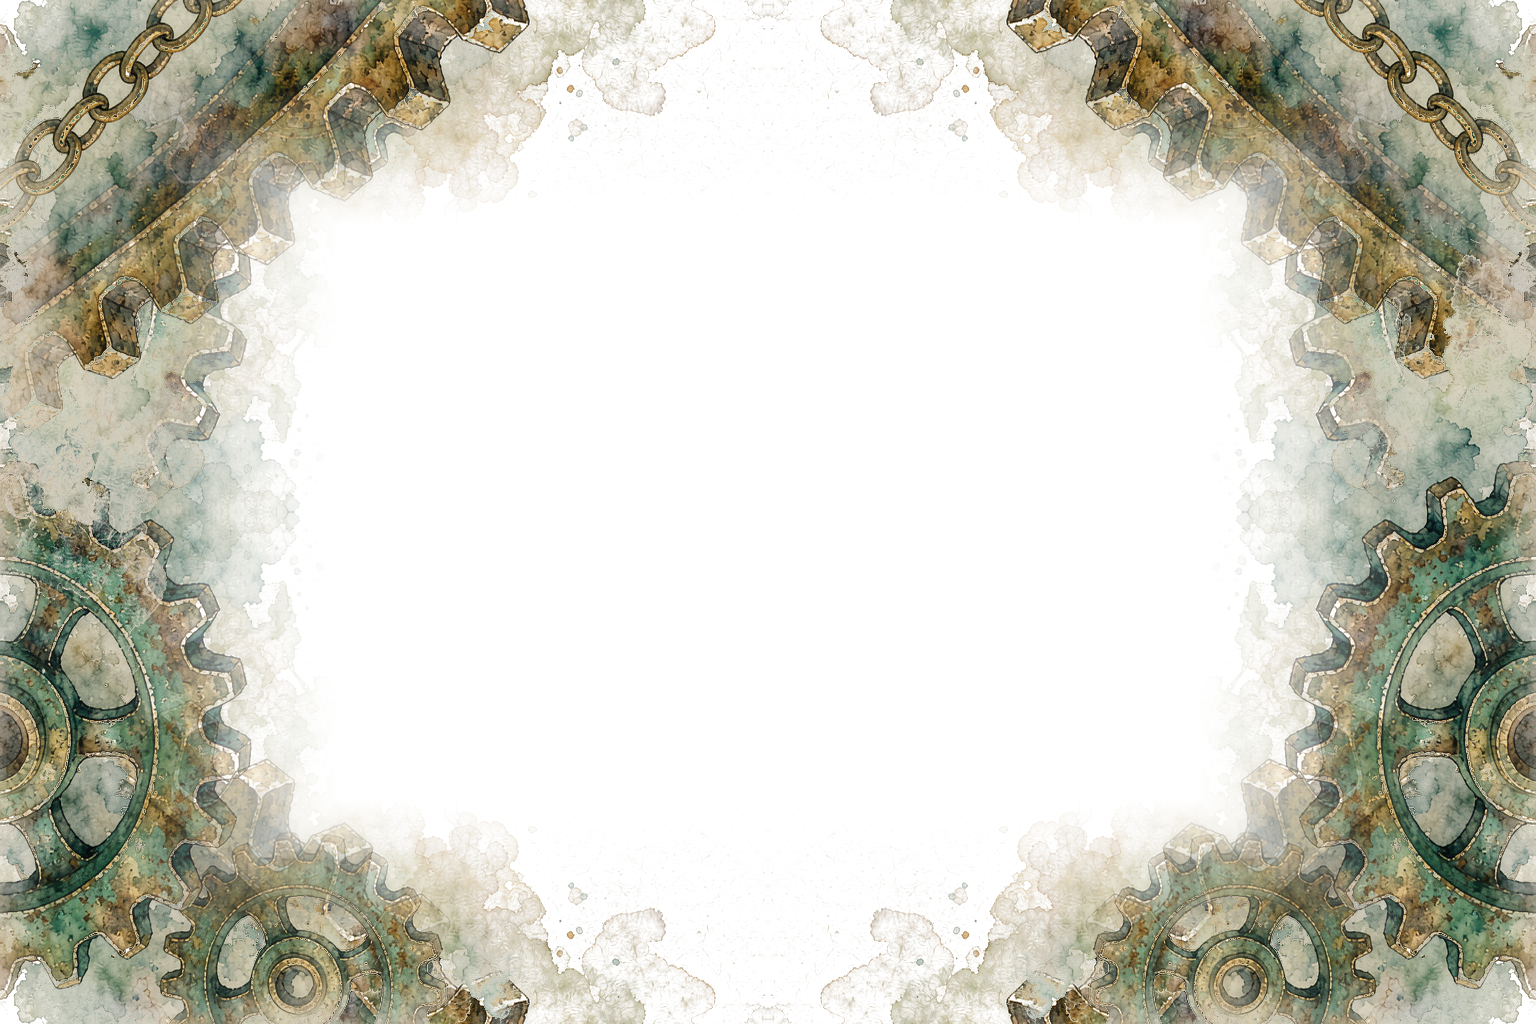
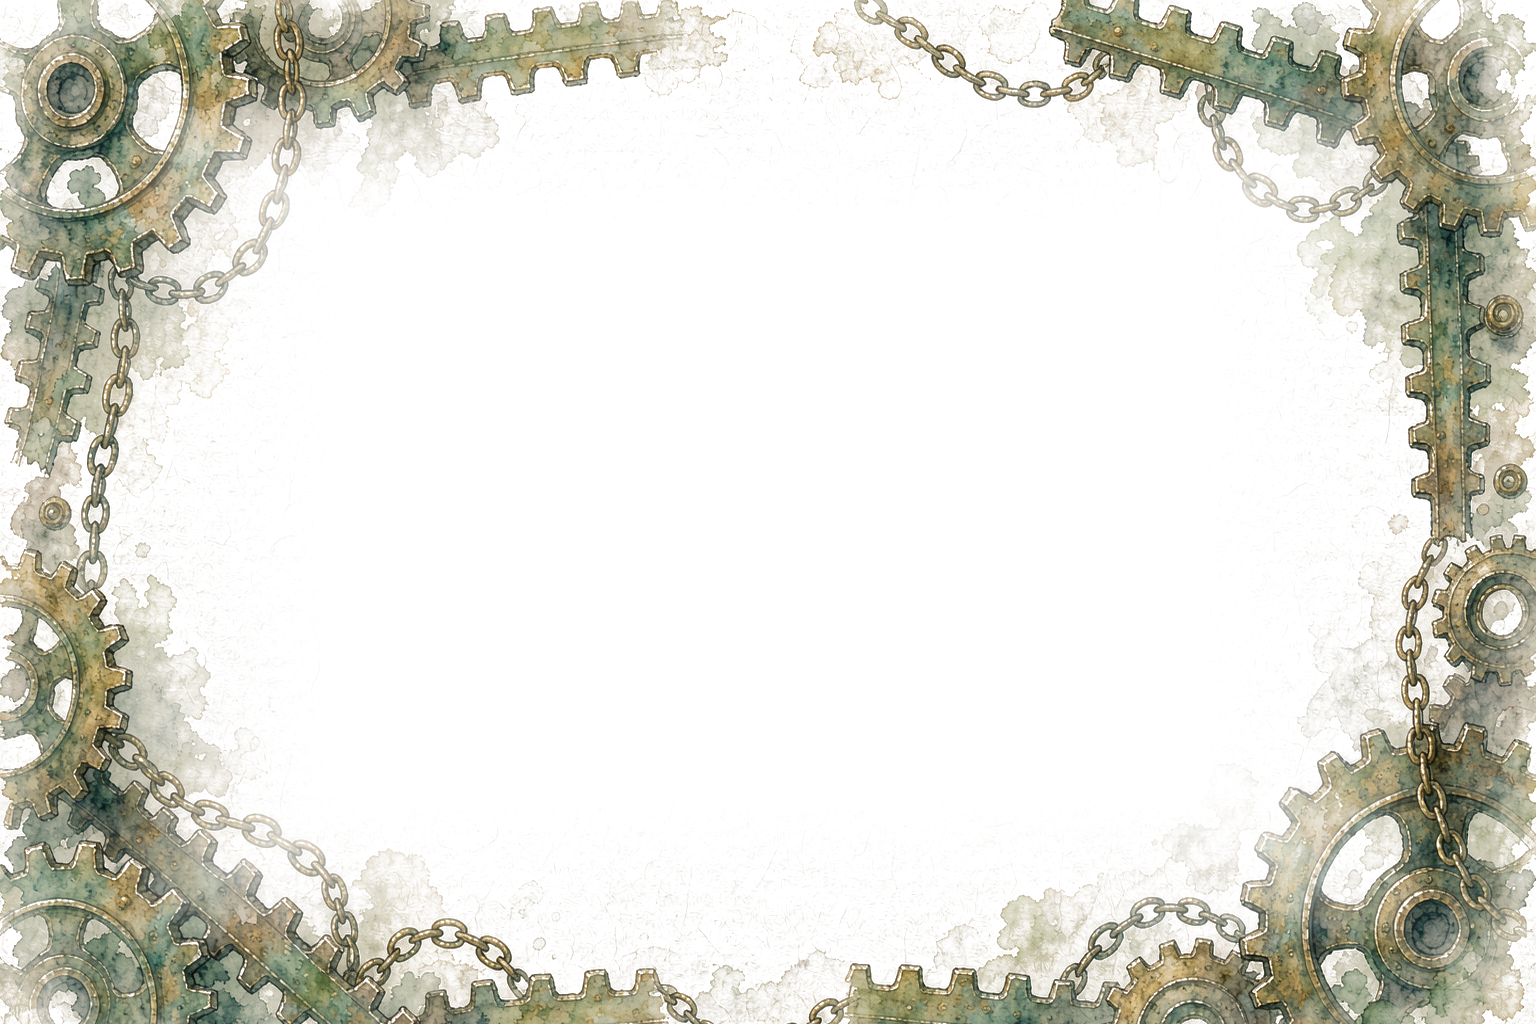
秘境粒子按场域分流 + 苍泽/机枢美术重做
1. 粒子（用户："每一关秘境飘动的粒子没有变化""秘境转场出现彩色圆粒子很难看"）
   · BattleAmbientParticles 新增 StyleForRealm + BuildRealm(realmId)：
     苍泽浮萍（大/慢/横摆）、烬岭火星（小/上浮/闪烁）、机枢铜屑（直线快转）、
     寂域尘埃（几乎静止）、荆墟枯叶（大摆幅旋转）；
   · BattleStage2D.Build(..., act, realmId)：有 realmId 时用场域粒子（Battle 程序集不引用 Run，
     由 BattleSceneDriver 读存档后传参）；
   · SceneFlow：进战斗 / 出战斗转场，InRealm 时改用 UI/Realm/FX_<realmId>，
     不再套季节花瓣/萤火（那批彩色圆点就是它）。
   · 五张场域粒子图程序化重画（256² 透明）：浮萍/火星/齿轮/尘埃/枯叶。
2. 美术重做（用户："苍泽四周前景不搭""机枢背景和前景都不喜欢"，各 5~10 积分）：
   · FG_realm_marsh：青绿芦苇沿四边成框，中间留白（保留原色，纸底 222 判白）；
   · BG_realm_gear：黄铜机关城战场（齿轮墙/铁链/蒸汽），地面留空；
   · FG_realm_gear：青铜齿轮与铁链四周成框。

diff --git a/Assets/WanXiang/Modules/Battle/Presentation/BattleAmbientParticles.cs b/Assets/WanXiang/Modules/Battle/Presentation/BattleAmbientParticles.cs
@@ -53,6 +53,32 @@ namespace WanXiang.Battle.Presentation
             }
         }
 
+        /// <summary>
+        /// 秘境场域风格（2026-10-23 用户："每一关秘境飘动的粒子也没有变化"）。
+        /// 图统一在 Resources/UI/Realm/FX_realm_&lt;id&gt;，与地图氛围共用一套。
+        /// </summary>
+        public static Style StyleForRealm(string realmId)
+        {
+            switch (realmId)
+            {
+                // 苍泽·浮萍：大、慢、横向大幅摆动（浮在水上）
+                case "realm_marsh":
+                    return new Style { ResPath = "UI/Realm/FX_realm_marsh", Count = 12, WorldSize = 0.55f, FallSpeed = 0.22f, SwayAmp = 1.30f, SwayFreq = 0.40f, SpinDeg = 12f, AlphaMin = 0.45f, AlphaSpeed = 0f };
+                // 烬岭·火星：小、快、上浮（热气流），带闪烁
+                case "realm_ember":
+                    return new Style { ResPath = "UI/Realm/FX_realm_ember", Count = 18, WorldSize = 0.18f, FallSpeed = -0.55f, SwayAmp = 0.55f, SwayFreq = 1.4f, SpinDeg = 0f, AlphaMin = 0.20f, AlphaSpeed = 2.2f };
+                // 机枢·铜屑：中等、直线下落、快转（机械感）
+                case "realm_gear":
+                    return new Style { ResPath = "UI/Realm/FX_realm_gear", Count = 14, WorldSize = 0.26f, FallSpeed = 0.85f, SwayAmp = 0.10f, SwayFreq = 0.25f, SpinDeg = 180f, AlphaMin = 0.60f, AlphaSpeed = 0f };
+                // 寂域·尘埃：几乎静止、极慢、极淡
+                case "realm_silent":
+                    return new Style { ResPath = "UI/Realm/FX_realm_silent", Count = 10, WorldSize = 0.14f, FallSpeed = 0.06f, SwayAmp = 0.18f, SwayFreq = 0.15f, SpinDeg = 4f, AlphaMin = 0.25f, AlphaSpeed = 0f };
+                // 荆墟·枯叶：中等偏大、旋转多、摆动大
+                default:
+                    return new Style { ResPath = "UI/Realm/FX_realm_thorn", Count = 14, WorldSize = 0.34f, FallSpeed = 0.55f, SwayAmp = 1.00f, SwayFreq = 0.85f, SpinDeg = 90f, AlphaMin = 0.55f, AlphaSpeed = 0f };
+            }
+        }
+
         private struct P
         {
             public Transform T;
@@ -71,10 +97,21 @@ namespace WanXiang.Battle.Presentation
         public int ActiveCount => _ps != null ? _ps.Length : 0;
 
         /// <summary>按幕构建粒子池。缺图或数量为 0 时静默跳过（不阻塞战斗）。</summary>
+        /// <summary>按秘境场域构建（与 Build(act) 二选一）。</summary>
+        public void BuildRealm(string realmId)
+        {
+            Build(StyleForRealm(realmId));
+        }
+
         public void Build(int act)
         {
             Clear();
-            _style = StyleForAct(act);
+            Build(StyleForAct(act));
+        }
+
+        private void Build(Style style)
+        {
+            _style = style;
             var sp = Resources.Load<Sprite>(_style.ResPath);
             if (sp == null)
             {
@@ -120,7 +157,7 @@ namespace WanXiang.Battle.Presentation
                     AlphaSpeed = _style.AlphaSpeed,
                 };
             }
-            Debug.Log("[Stage2D] 环境粒子已就绪 act=" + act + " count=" + _ps.Length + " sprite=" + sp.name);
+            Debug.Log("[Stage2D] 环境粒子已就绪 style=" + _style.ResPath + " count=" + _ps.Length + " sprite=" + (sp != null ? sp.name : "null"));
         }
 
         /// <summary>推进粒子（由 BattleStage2D.Step 转发 dt）。</summary>

diff --git a/Assets/WanXiang/Modules/UI/SceneFlow.cs b/Assets/WanXiang/Modules/UI/SceneFlow.cs
@@ -108,8 +108,12 @@ namespace WanXiang.Modules.UI
             //   复用 RealmTransition 的粒子/揭示流程，艺术字换成「战斗」，粒子用墨团。
             // ★ 粒子按**当前幕的季节**选（用户："按当前所在的幕的季节使用适合的粒子"）
             // 末尾追加冲击字「开始」：粒子散开 + 「战斗开始」消去之后砸出来
+            // ★ 2026-10-23 用户："秘境里战斗转场会出现彩色圆粒子，很难看" ——
+            //   秘境战斗必须用**该场域的粒子**（UI/Realm/FX_<realmId>），不能用季节花瓣/萤火。
+            var runF = WanXiang.Run.RunSave.Current;
+            string partPath = (runF != null && runF.InRealm) ? ("UI/Realm/FX_" + runF.RealmId) : ParticleForAct(act);
             RealmTransition.PlayAsync(null, () => Load(BattleScene), null,
-                "UI/Title/battle", ParticleForAct(act), revealDelay: 0.10f,
+                "UI/Title/battle", partPath, revealDelay: 0.10f,
                 impactWordRes: "UI/Title/start").Forget();
         }
 
@@ -131,8 +135,10 @@ namespace WanXiang.Modules.UI
             int actNow = WanXiang.Run.RunSave.Current != null ? WanXiang.Run.RunSave.Current.Act : 1;
             // revealDelay 0.55s：主城的节点地图是异步打开的，等它就绪再拨开，
             // 否则会先露出主界面背景（用户实测）。
+            var runX = WanXiang.Run.RunSave.Current;
+            string partExit = (runX != null && runX.InRealm) ? ("UI/Realm/FX_" + runX.RealmId) : ParticleForAct(actNow);
             RealmTransition.PlayAsync(null, () => Load(MainScene), null, word,
-                ParticleForAct(actNow), revealDelay: 0.55f).Forget();
+                partExit, revealDelay: 0.55f).Forget();
         }
 
         /// <summary>按幕取季节粒子（与 HomeScene3D / UiTransition 同一套资源）。</summary>

diff --git a/Assets/WanXiang/Modules/Battle/Presentation/BattleStage2D.cs b/Assets/WanXiang/Modules/Battle/Presentation/BattleStage2D.cs
@@ -454,7 +454,8 @@ namespace WanXiang.Battle.Presentation
         //  搭建
         // ================================================================
 
-        public void Build(BattleState st, Sprite springBg, SpriteCatalog catalog = null, Sprite fgDecor = null, int act = 1)
+        public void Build(BattleState st, Sprite springBg, SpriteCatalog catalog = null, Sprite fgDecor = null, int act = 1,
+                          string realmId = null)
         {
             _catalog = catalog;
             Clear();
@@ -496,7 +497,9 @@ namespace WanXiang.Battle.Presentation
             // ---- 环境粒子（按幕：春花瓣/夏萤火/长夏花粉/秋落叶/冬雪花）----
             _ambient = GetComponent<BattleAmbientParticles>();
             if (_ambient == null) _ambient = gameObject.AddComponent<BattleAmbientParticles>();
-            _ambient.Build(act);
+            // ★ 2026-10-23：秘境战斗用**场域专属**飘落粒子（用户："每关秘境粒子没有变化"）
+            if (!string.IsNullOrEmpty(realmId)) _ambient.BuildRealm(realmId);
+            else _ambient.Build(act);
 
             BuildBoard("BoardP", PlayerX, BoardY, true);
 

diff --git a/Assets/WanXiang/Modules/UI/BattleSceneDriver.cs b/Assets/WanXiang/Modules/UI/BattleSceneDriver.cs
@@ -117,7 +117,7 @@ namespace WanXiang.Modules.UI
                     }
                     if (bg == null) bg = _background;   // 旧序列化引用兜底
                     Sprite fg = fgRealm != null ? fgRealm : (inRealm ? null : Resources.Load<Sprite>(FgByAct[act - 1]));
-                    _stage.Build(play.State, bg, _sprites, fg, act);
+                    _stage.Build(play.State, bg, _sprites, fg, act, inRealm ? runR.RealmId : null);
                     Debug.Log("[BattleSceneDriver] 舞台已搭建：" + req.Title +
                               "（act=" + act + " bg=" + (bg != null ? bg.name : "null") +
                               " fg=" + (fg != null ? fg.name : "null") + "）");
